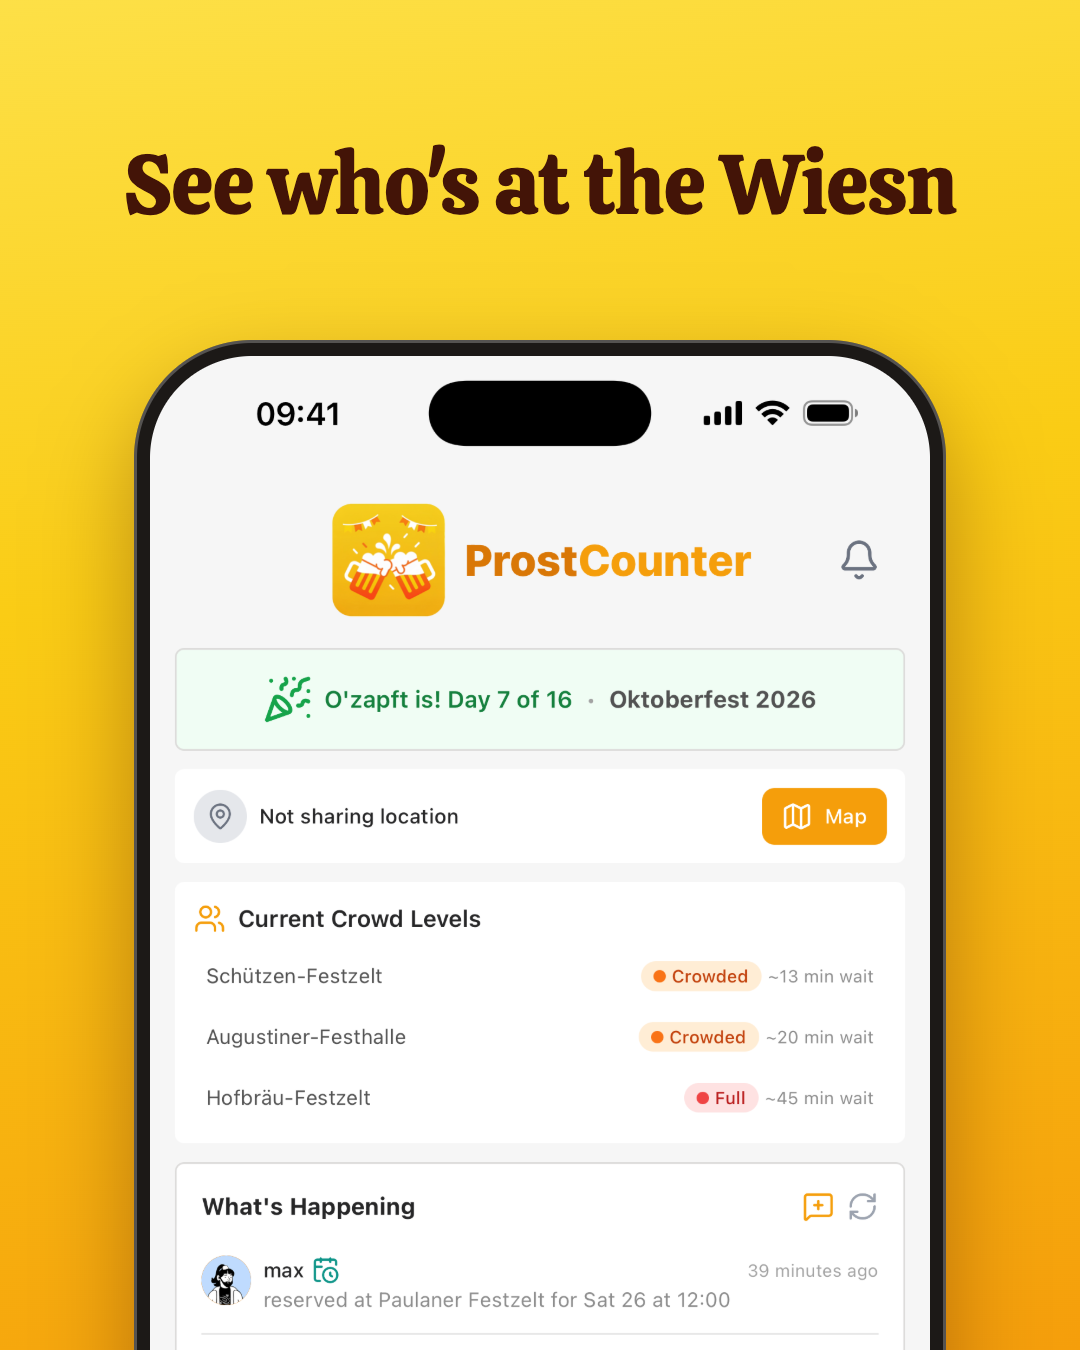
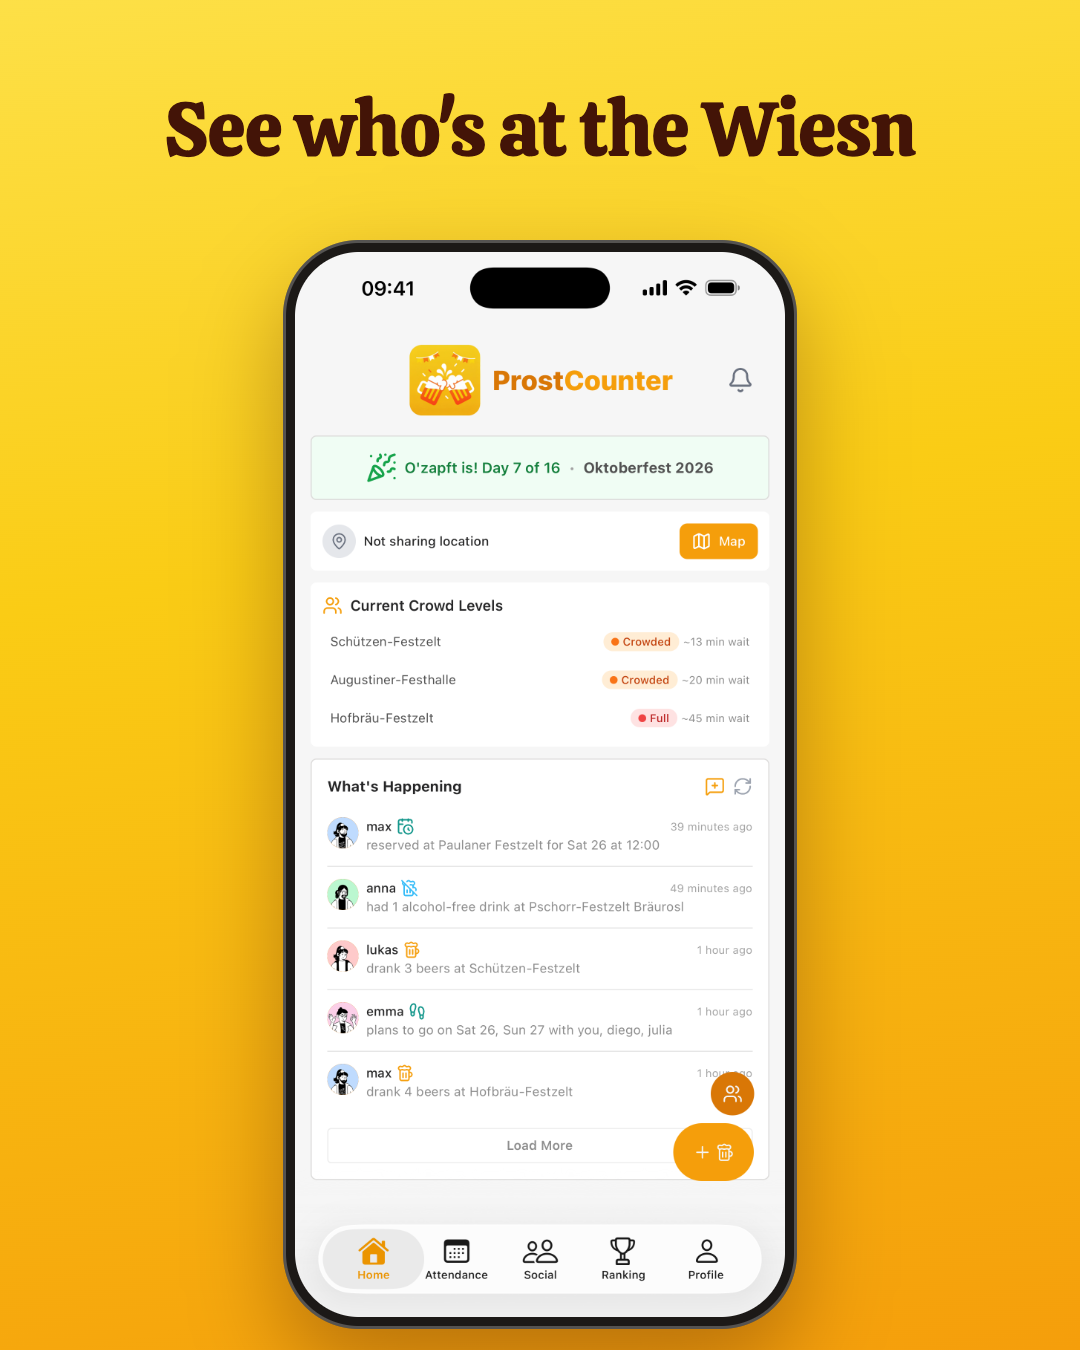
chore(social): per-shot Instagram frames and the single-post log
render.py now picks the Instagram layout per screen: the whole, smaller
phone for home, tents, groups and map, a collapsed band of dimmed rows on
log-drink, and the peak-moment Wrapped slide instead of the personality
one. SOCIAL.md logs the eight single posts and two web-posting gotchas.

diff --git a/scripts/store-screenshots/render.py b/scripts/store-screenshots/render.py
@@ -22,6 +22,18 @@ RAW = ROOT / "screenshots/iphone-6.9/raw"
 CHROME = "/Applications/Google Chrome.app/Contents/MacOS/Google Chrome"
 PLAY_LOCALES = {"en": "en-US", "de": "de-DE", "es": "es-ES"}
 
+# Instagram only. The 4:5 frame shows the top ~1750 raw px, so screens whose point sits
+# lower get a band of dimmed or empty rows collapsed (raw px, gap to gap) to pull it up.
+INSTAGRAM_COLLAPSE = {
+    "03-log-drink": (380, 1500),
+    "07-wrapped-personality": (360, 760),
+}
+# Instagram only: the personality slide is mostly empty; the peak-moment slide carries Wrapped.
+INSTAGRAM_RAW = {"07-wrapped-personality": "07b-wrapped-peak"}
+# Instagram only: screens whose point is below the fold get the whole, smaller phone.
+INSTAGRAM_FULL_PHONE = {"01-home", "04-tent-crowd", "05-group-leaderboard", "08-map"}
+INSTAGRAM_FULL = dict(width=1080, height=1350, font=76, top=50, head=160, gap=30, phone=490, pad=12, radius=76)
+
 # Pixel sizes per target. phone = outer width, pad = bezel, radius = outer corner radius.
 TARGETS = {
     "appstore": dict(width=1320, height=2868, font=124, top=200, head=268, gap=80, phone=990, pad=20, radius=150),
@@ -48,6 +60,14 @@ def fill_top_band(src: Path, dst: Path) -> None:
         colour = img.getpixel((img.width // 2, band + 4))
         img.paste(colour, (0, 0, img.width, band))
     img.save(dst)
+
+
+def collapse_rows(path: Path, top: int, bottom: int) -> None:
+    img = Image.open(path)
+    out = Image.new(img.mode, (img.width, img.height - (bottom - top)))
+    out.paste(img.crop((0, 0, img.width, top)), (0, 0))
+    out.paste(img.crop((0, bottom, img.width, img.height)), (0, top))
+    out.save(path)
 
 
 def page(headline: str, shot: Path, t: dict) -> str:
@@ -86,9 +106,13 @@ def main() -> None:
     with tempfile.TemporaryDirectory() as tmp:
         for shot_id, headline in copy.items():
             shot = Path(tmp) / f"{shot_id}.png"
-            fill_top_band(RAW / f"{shot_id}.png", shot)
+            raw_id = INSTAGRAM_RAW.get(shot_id, shot_id) if target == "instagram" else shot_id
+            fill_top_band(RAW / f"{raw_id}.png", shot)
+            if target == "instagram" and shot_id in INSTAGRAM_COLLAPSE:
+                collapse_rows(shot, *INSTAGRAM_COLLAPSE[shot_id])
             page_file = Path(tmp) / f"{shot_id}.html"
-            page_file.write_text(page(headline, shot, t))
+            full = target == "instagram" and shot_id in INSTAGRAM_FULL_PHONE
+            page_file.write_text(page(headline, shot, INSTAGRAM_FULL if full else t))
             subprocess.run(
                 [CHROME, "--headless=new", "--hide-scrollbars", "--force-device-scale-factor=1",
                  f"--window-size={t['width']},{t['height']}", f"--screenshot={out / f'{shot_id}.png'}",

diff --git a/docs/SOCIAL.md b/docs/SOCIAL.md
@@ -34,14 +34,26 @@ Copy key is `followInstagram` under `footer`, `marketing.footer` and `profile.ab
 | ---------- | -------- | ---------------------------------------------------------------------- | -------------------------------------------------- |
 | 2026-09-25 | Carousel | 8 app screenshots, 4:5, alt text per slide                             | `screenshots/instagram/en/`                        |
 | 2026-09-25 | Reel     | 20s promo remix: Maß counter hook, two-tap log, leaderboard, 90 badges | `brags/2026-09-25-162342/brag.mp4` (main checkout) |
+| 2026-09-26 | 8 posts  | One screen per post, headline + a short what-you-can-do caption        | `screenshots/instagram/en/`                        |
 
 Links: [carousel](https://www.instagram.com/prostcounter/p/Ddt5T5tCGEQ/),
 [reel](https://www.instagram.com/prostcounter/reel/Ddt9ydwPRPC/).
+Single posts, oldest first: [map](https://www.instagram.com/prostcounter/p/DdvyjVwCJCN/),
+[wrapped](https://www.instagram.com/prostcounter/p/DdvzpV8iOr6/),
+[badges](https://www.instagram.com/prostcounter/p/Ddv0ekwiKnd/),
+[groups](https://www.instagram.com/prostcounter/p/Ddv0zfqCMvF/),
+[tents](https://www.instagram.com/prostcounter/p/Ddv1XDMiALQ/),
+[log a drink](https://www.instagram.com/prostcounter/p/Ddv1wMtiNLB/),
+[calendar](https://www.instagram.com/prostcounter/p/Ddv3Kq_CBct/),
+[home](https://www.instagram.com/prostcounter/p/Ddv3vMvCD5K/).
+Posted in reverse so the grid reads Home first.
 
 ### Where assets come from
 
 - **Screenshot carousels**: `python3 scripts/store-screenshots/render.py en instagram`
-  renders the store screenshots into a 1080x1350 (4:5) frame with the whole phone visible.
+  renders the store screenshots into a 1080x1350 (4:5) frame. Most shots use a big phone
+  that runs off the bottom; screens whose point is below the fold (home, tents, groups, map)
+  get the whole, smaller phone (`INSTAGRAM_FULL_PHONE` in `render.py`).
   See [scripts/store-screenshots/README.md](../scripts/store-screenshots/README.md).
 - **Promo videos**: `brags/` in the main checkout (gitignored, not on any branch). Each run
   folder has `brag.mp4` (1080x1920), `share-copy.txt` (the caption written for that cut),
@@ -58,6 +70,11 @@ Links: [carousel](https://www.instagram.com/prostcounter/p/Ddt5T5tCGEQ/),
   default is fine.
 - Alt text is per image, under "Accesibilidad" in the caption step. There is no visible
   per-slide caption on the web.
+- Stories can't be posted with video from the web. The mobile-web story button only takes
+  images, and Meta Business Suite needs a separate business login. Share the Reel to the
+  story from the phone instead, with a link sticker to `prostcounter.fun/download`.
+- Posting, deleting and re-posting several times in an hour gets a `login_required` error
+  on share even though the session is fine. Space posts out and retry once, later.
 - Leave the AI label off for screenshots and motion-graphics renders of the real UI.
 - Captions: English, no em-dashes, `prostcounter.fun` spelled out (caption links aren't
   clickable), hashtags `#oktoberfest #wiesn #oktoberfest2026 #munich #prost`.

diff --git a/scripts/store-screenshots/README.md b/scripts/store-screenshots/README.md
@@ -13,8 +13,11 @@ python3 scripts/store-screenshots/render.py en instagram  # feed 4:5, 1080x1350,
 ```
 
 Play rejects anything longer than 2:1, so it can't take the App Store frames. The
-Instagram frame lets the phone run off the bottom, which hides bottom sheets: the
-log-drink and tent-picker shots don't work there.
+Instagram frame lets the phone run off the bottom, which hides anything low on the
+screen. `render.py` handles that per shot: the whole, smaller phone for home, tents,
+groups and map (`INSTAGRAM_FULL_PHONE`), a band of dimmed rows collapsed on log-drink
+(`INSTAGRAM_COLLAPSE`), and the peak-moment Wrapped slide instead of the personality
+one (`INSTAGRAM_RAW`).
 
 Headlines come from `copy.json`, keyed by the raw file name. Adding a locale is
 adding a block there (German with real umlauts, Spanish in voseo) and running the
